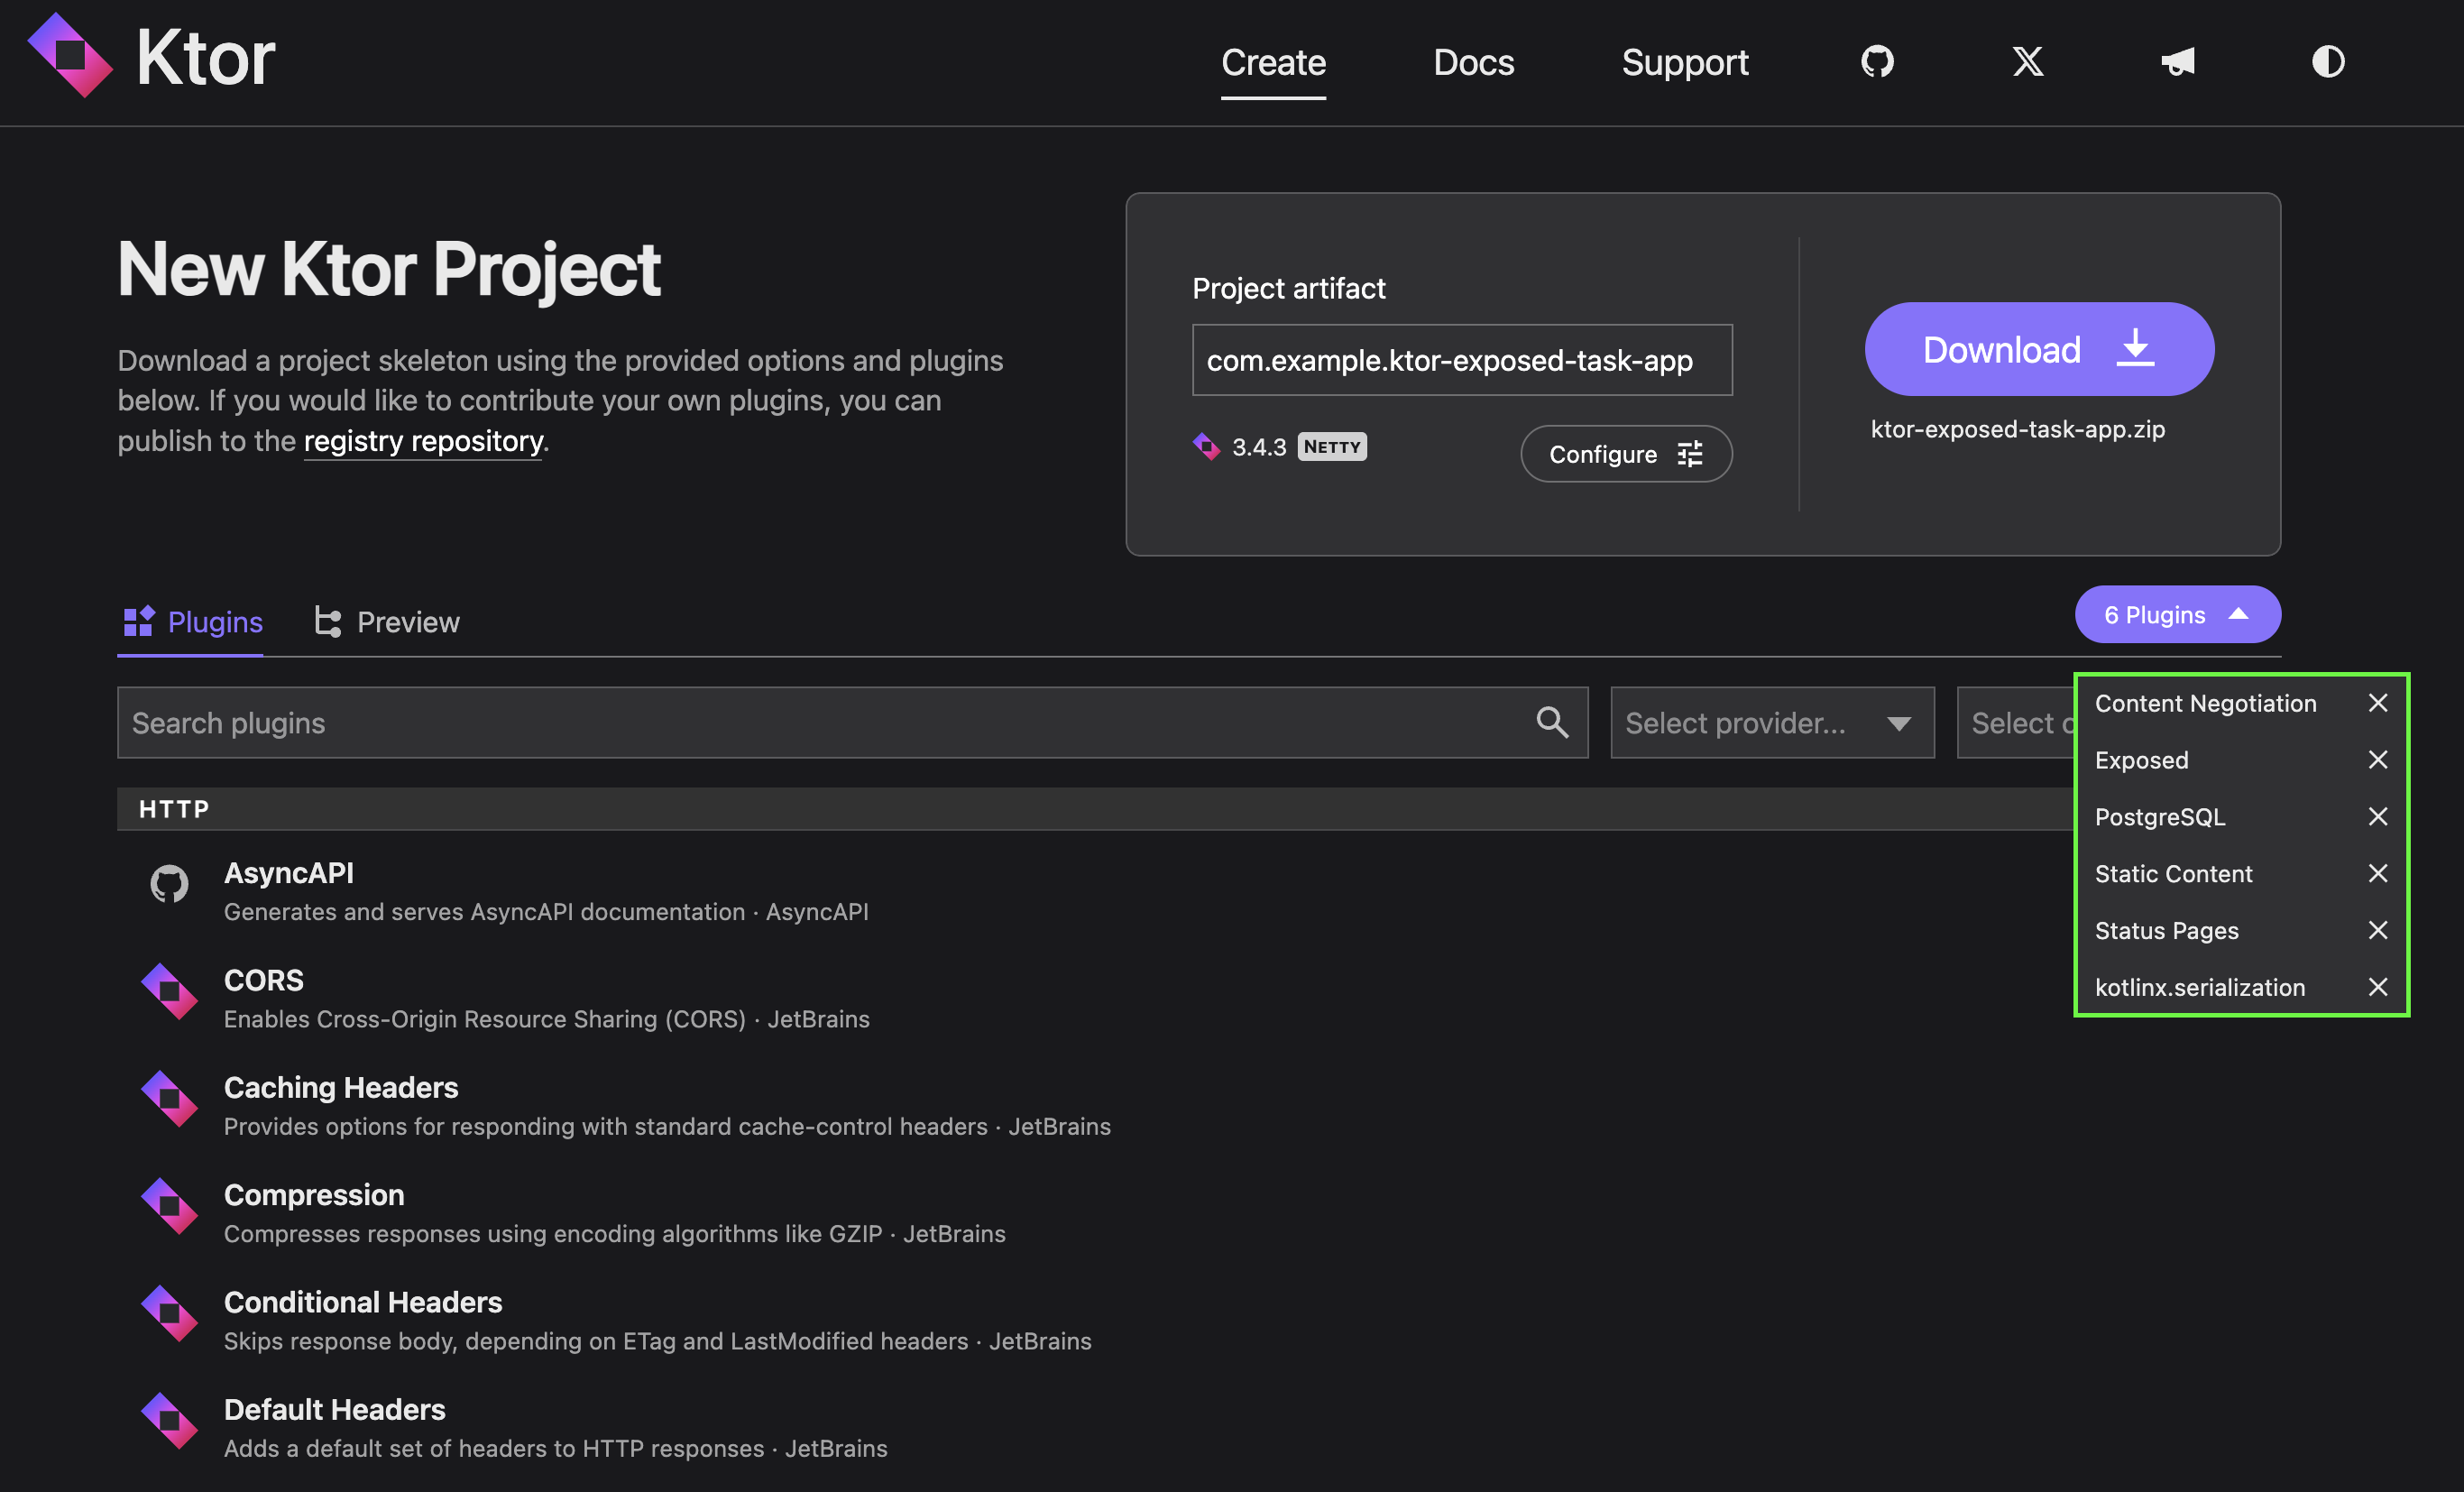
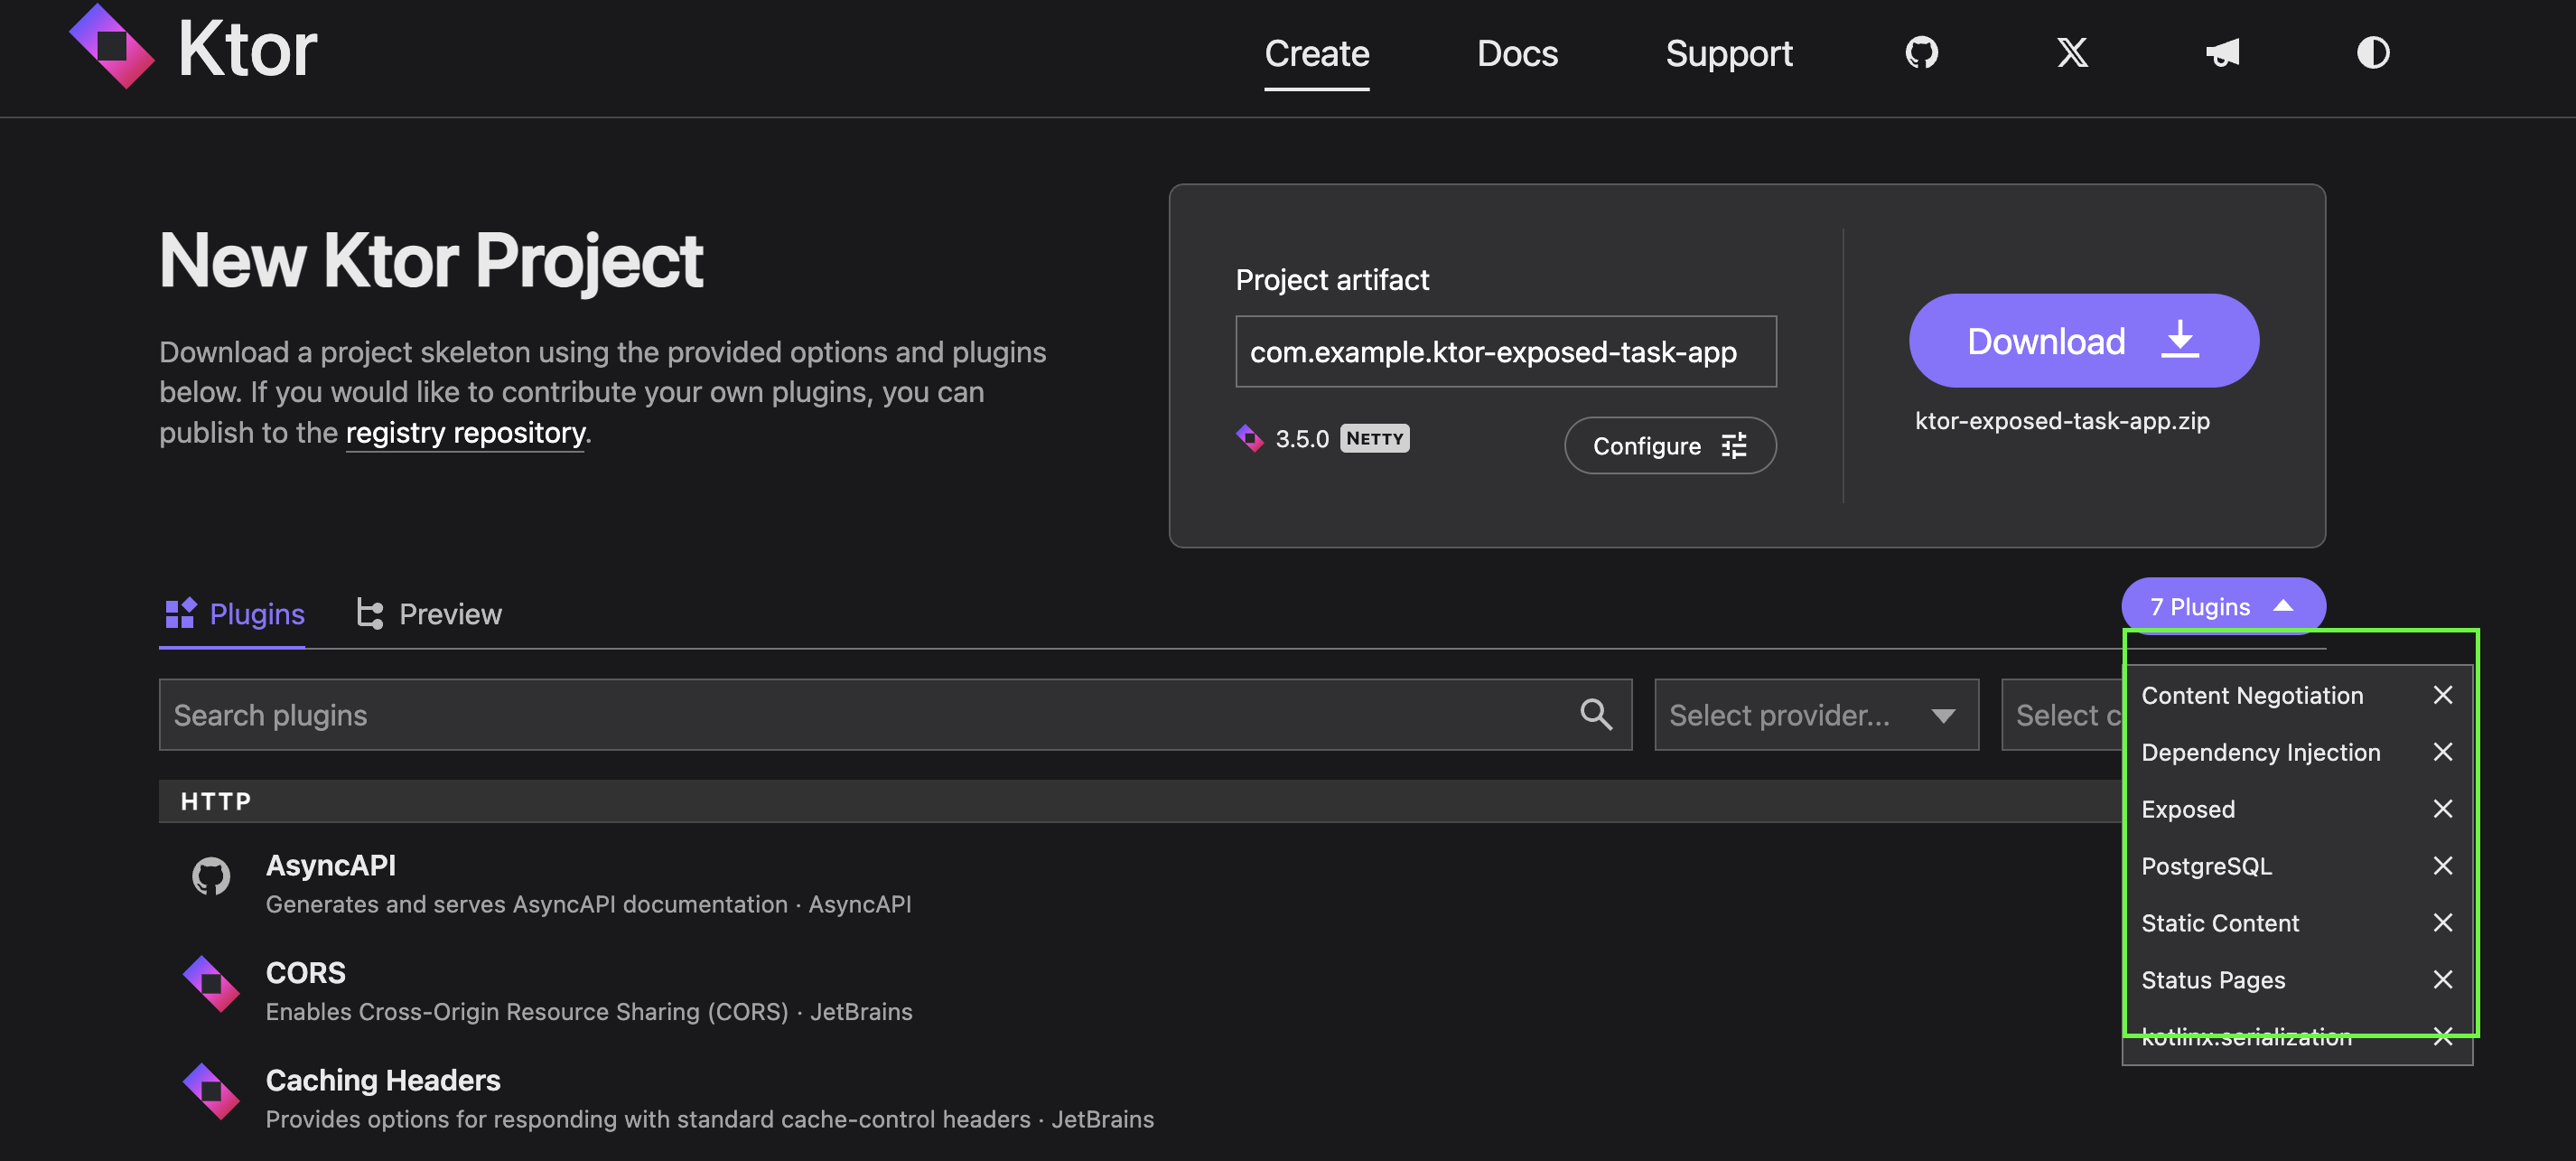
update the tutorial-server-db-integration project and instructions

diff --git a/codeSnippets/snippets/tutorial-server-db-integration/src/main/kotlin/DI.kt b/codeSnippets/snippets/tutorial-server-db-integration/src/main/kotlin/DI.kt
@@ -1,0 +1,15 @@
+package com.example
+
+import com.example.model.PostgresTaskRepository
+import com.example.model.TaskRepository
+import io.ktor.server.application.*
+import io.ktor.server.plugins.di.*
+
+// The contents of the `install` function will be used for the project template
+fun Application.configureDependencyInjection() {
+    dependencies {
+        provide<TaskRepository> {
+            PostgresTaskRepository()
+        }
+    }
+}

diff --git a/codeSnippets/snippets/tutorial-server-db-integration/src/main/kotlin/main.kt b/codeSnippets/snippets/tutorial-server-db-integration/src/main/kotlin/main.kt
@@ -1,18 +1,5 @@
 package com.example
 
-import com.example.model.PostgresTaskRepository
-import com.example.model.TaskRepository
-import io.ktor.server.application.*
-import io.ktor.server.plugins.di.dependencies
-
 fun main(args: Array<String>) {
     io.ktor.server.netty.EngineMain.main(args)
-}
-
-fun Application.configureDependencies() {
-    dependencies {
-        provide<TaskRepository> {
-            PostgresTaskRepository()
-        }
-    }
 }

diff --git a/codeSnippets/snippets/tutorial-server-db-integration/README.md b/codeSnippets/snippets/tutorial-server-db-integration/README.md
@@ -18,7 +18,7 @@ in [the tutorial](https://ktor.io/docs/server-integrate-database.html#create-sch
 1. Navigate to `src/main/kotlin/` and open the `Exposed.kt` file.
 2. Replace the attributes in the `Database.connect()` function to correspond to your setup:
 ```kotlin
-fun Application.configureDatabases() {
+suspend fun Application.configureExposed() {
     Database.connect(
         "jdbc:postgresql://localhost:5432/ktor_tutorial_db",
         user = "postgresql",